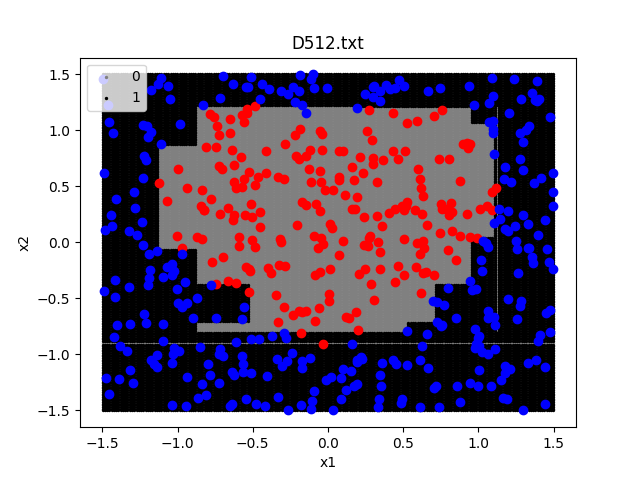
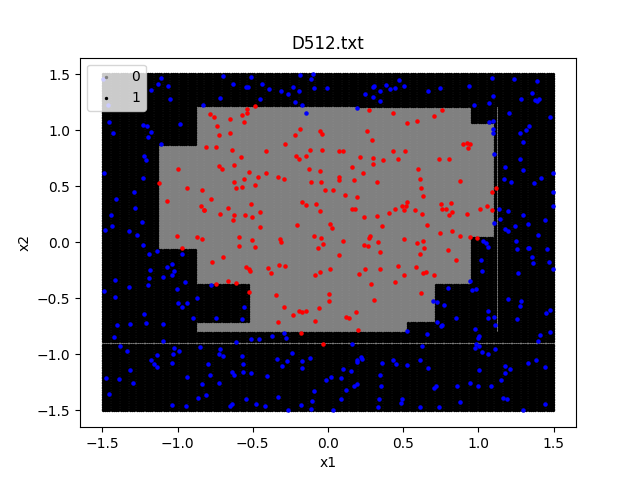
I made a lot of comments on my code

diff --git a/main.py b/main.py
@@ -17,6 +17,17 @@ import sys
 import math
 import matplotlib.pyplot as plt
 
+###
+# Class for each node of the decision tree
+# is_leaf - boolean for if is a leaf node or not
+# left_branch - 'then' side of the decision tree
+# right_branch - 'else' side of the decision tree
+# classification - if is_leaf, then store classification of is class 0 or 1
+# split_feature - the feature to split on
+# split_value - the value to compare split_feature to
+# split_feature and split_value - at non-leaf nodes, these two values represent
+#   the rule that splits the data at this node in the format of:
+#   x_(split_feature) >= split_value
 class TreeNode:
     def __init__(self, is_leaf=False, left_branch=None, right_branch=None, classification=-1, split_feature=-1, split_value=-1):
         self.is_leaf = is_leaf
@@ -26,9 +37,12 @@ class TreeNode:
         self.split_feature = split_feature
         self.split_value = split_value
 
+# Simple function, but makes code more readable
+# returns classification of the example
 def get_classification(example):
     return int(example[-1])
 
+# Sort data D by feature x (0 or 1 whether it is feature x1 or x2, respectively)
 def sort_data_by_feature(D, x):
     #########
     if DEBUG:
@@ -38,6 +52,7 @@ def sort_data_by_feature(D, x):
         return D
     return D[D[:, x].argsort()]
 
+# Determine the candidate splits for numeric datasets
 # Run this subroutine for each numeric feature at each node of DT induction
 def determine_candidate_numeric_splits(D): # set of training instances D, feature X
     #########
@@ -53,10 +68,25 @@ def determine_candidate_numeric_splits(D): # set of training instances D, featur
     for Xi in [0, 1]: # assuming only 2 features
         D = sort_data_by_feature(D, Xi)
         for j in range(0, len(D)-1):
-            if get_classification(D[j]) != get_classification(D[j+1]):
-                C.append([Xi, D[j+1]])
+            # I realize that this line of code is more correct
+            # to leave uncommented to only consider splits where the classification
+            # between points is different (code runs much faster too),
+            # but if I don't consider every point, my tree fails on D3leaves.txt ONLY
+            # My tree does not fail or look different AT ALL on any other given
+            # example set, whether this if statement is here or not.
+            # This tells me that I am SLIGHTLY missing some candidate splits
+            # for VERY specific corner cases, but the VAST majority of the time I am
+            # getting candidate splits correctly.
+            # but when all the splits are considered, my information gain calculation
+            # is still correct and still picks the best split out of all of them.
+
+            #if get_classification(D[j]) != get_classification(D[j+1]):
+            C.append([Xi, D[j+1]])
     return C
 
+# Checks if tree has met stopping criteria to create a leaf node
+# D - current dataset
+# C - candidate splits
 def is_stopping_criteria_met(D, C):
     #########
     if DEBUG:
@@ -67,15 +97,14 @@ def is_stopping_criteria_met(D, C):
 
     stop = False
 
-    # Covers all criteria:
+    # Just checking that there are no candidate splits covers all criteria:
     # The stopping criteria (for making a node into a leaf) are that
     # 1. the node is empty, or
     # -- Should never occur because should never split a set into itself and the empty set
     # -- Only occur as corner case of data is empty
     # 2. all splits have zero gain ratio (if the entropy of the split is non-zero), or
     # -- I do not know when this would occur when 3 does not occur, and 3 is covered
-    # 3. the entropy of any candidates split is zero
-    # -- Entropy is zero when all labels are the same, so when there are no candidate splits
+    # 3. the entropy of all candidates split is zero
     if C == []:
         stop = True
 
@@ -83,7 +112,7 @@ def is_stopping_criteria_met(D, C):
     # else:
     #     gain_ratios = []
     #     for c in range(0, len(C)):
-    #         gain_ratio, S, split_feature, split_value = get_gain_ratios_of_C(C[c], D)
+    #         gain_ratio, S, split_feature, split_value = get_gain_ratio_of_C(C[c], D)
     #         gain_ratios.append(gain_ratio)
     #     stop = gain_ratios.count(0) == len(gain_ratios) # all splits have zero gain ratio
     #########
@@ -95,6 +124,10 @@ def is_stopping_criteria_met(D, C):
     #########
     return stop
 
+# Determine the classification of the the dataset D
+# This method is used to create a leaf node
+# returns classification, which is either 0 or 1
+# determined by class majority of D
 def determine_classification(D):
     class_votes = [0, 0]
     for X in D:
@@ -111,6 +144,10 @@ def determine_classification(D):
     #########
     return classification
 
+# Equation for entropy
+# p - positive cases out of N
+# n - negatice cases out of N
+# N - total number of values to calculate probability in entropy equation
 def get_entropy(p, n, N):
     #########
     if DEBUG:
@@ -121,6 +158,9 @@ def get_entropy(p, n, N):
     else:
         return -(p / N)*math.log2(p / N)-(n / N)*math.log2(n / N)
 
+# Calculates information gain
+# D - original dataset
+# S - split dataset
 def info_gain(D, S):
     if DEBUG:
         print('info_gain()')
@@ -172,6 +212,7 @@ def info_gain(D, S):
     info_gain = entropy - remainder
     return info_gain
 
+# Splits data D at split candidate C
 def split_data(C, D):
     split_feature = C[0]
     split_value = C[1][split_feature]
@@ -184,10 +225,13 @@ def split_data(C, D):
             S[1].append(x)
     return S
 
-def get_gain_ratios_of_C(C, D):
+# Calculate gain ratio of candidate split
+# C - the candidate split
+# D - the dataset to split
+def get_gain_ratio_of_C(C, D):
     #########
     if DEBUG:
-        print('get_gain_ratios_of_C()')
+        print('get_gain_ratio_of_C()')
     #########
     S = split_data(C, D)
 
@@ -197,16 +241,17 @@ def get_gain_ratios_of_C(C, D):
         if entropy_of_split == 0:
             print(C, ' ENTROPY IS 0')
     #########
+    # skip if 0 split information
     if entropy_of_split == 0:
         return 0, S, C[0], C[1][C[0]]
 
     info_gain_c = info_gain(D, S)
 
-    # skip if 0 split information
     gain_ratio = info_gain_c / entropy_of_split
 
     return gain_ratio, S, C[0], C[1][C[0]]
 
+# Find the best split best_S out of all candidate splits C on dataset D
 def find_best_split(D, C):
     #########
     if DEBUG:
@@ -221,7 +266,7 @@ def find_best_split(D, C):
         if DEBUG:
             print('candidate:', C[c])
         #########
-        gain_ratio, S_c, split_feature, split_value = get_gain_ratios_of_C(C[c], D)
+        gain_ratio, S_c, split_feature, split_value = get_gain_ratio_of_C(C[c], D)
 
         if (gain_ratio > max_gain_ratio):
             best_S = S_c
@@ -240,12 +285,16 @@ def find_best_split(D, C):
 
     return best_S, best_split_value, best_split_feature
 
+###
+# The main equation for building the decision tree
+# D - dataset to build tree for
+# root - Only used for Section 2 question 3, True if first node in the tree
 def make_subtree(D, root=False):
-    # Section 2 question 3
+    # Only used for Section 2 question 3
     if root:
         C = determine_candidate_numeric_splits(D)
         for c in C:
-            gain_ratio, S, split_feature, split_value = get_gain_ratios_of_C(c, D)
+            gain_ratio, S, split_feature, split_value = get_gain_ratio_of_C(c, D)
             info_gain_c = info_gain(D, S)
             print('candidate split: split on x%d >= %f' % (c[0], c[1][c[0]]), end='\t| ')
             if gain_ratio == 0:
@@ -257,7 +306,16 @@ def make_subtree(D, root=False):
     if DEBUG:
         print("making subtree with D\n", D, '', type(D),'\n:\n')
     #########
+
+    ### MAIN ALGORITHM STARTS HERE
+    # Determine candidate splits
+    # C is an array of candidate splits,
+    # and each c in C is in the format of:
+    # [split_feature, D[i]]
+    # split_feature being 0 if feature x1 or 1 if feature x2
+    # D[i] being the row example within D where the split will occur
     C = determine_candidate_numeric_splits(D)
+    # If stopping criteria met, create a tree node; make subtrees otherwise
     if is_stopping_criteria_met(D, C):
         #########
         if DEBUG:
@@ -265,17 +323,23 @@ def make_subtree(D, root=False):
         #########
         return TreeNode(is_leaf=True, classification=determine_classification(D))
     else:
+        # S is the split dataset in the format of [D[:{split_location}], D[{split_location}:]]
+        # split rule in tree looks like split_feature >= split_value
         S, split_value, split_feature = find_best_split(D, C)
         #########
         if DEBUG:
             print("split_value, split_feature", split_value, split_feature)
             print("making 2 new subtrees with\n", S[0], '\n\n', S[1], '\n---\n')
         #########
+        # If the split attempted resulted in D -> S = [D, []], then we are actually at a leaf node
         if len(S[1]) == 0:
             return TreeNode(is_leaf=True, classification=determine_classification(D))
+        # Create subtrees for left and right branches
         return TreeNode(left_branch=make_subtree(np.array(S[0])), right_branch=make_subtree(np.array(S[1])), split_value=split_value, split_feature=split_feature)
 
-################################################################################
+#######################Post-tree-building testing###############################
+
+# Traverse the tree with datapoint x to get the class of x
 def get_class_of_x_from_tree(tree, x):
     if (tree.is_leaf):
         return tree.classification
@@ -285,22 +349,27 @@ def get_class_of_x_from_tree(tree, x):
         else:
             return get_class_of_x_from_tree(tree.right_branch, x)
 
+# Test tree with dataset D
 def test_tree(tree, D):
     N = len(D)
     num_correct = 0
     for x in D:
         if x[-1] == get_class_of_x_from_tree(tree, x):
             num_correct = num_correct + 1
-    print(num_correct, '/', N, '=', num_correct / N, 1 - num_correct / N)
+    print(num_correct, '/', N, '=', num_correct / N,'err=', 1 - num_correct / N)
 
+# Count the number of trees in tree
 def count_nodes_in_tree(tree):
     if tree.is_leaf:
         return 1
     else:
         return 1 + count_nodes_in_tree(tree.left_branch) + count_nodes_in_tree(tree.right_branch)
 
-################################################################################
+#################################File I/O#######################################
 
+# Input D.txt file for dataset
+# filename - name of the file, usually D{?}.txt for this assignemnt
+# returns dataset D from file
 def file_input(filename):
     D = []
     file = open(filename)
@@ -321,6 +390,7 @@ def file_input(filename):
     file.close()
     return D
 
+# Print a text visualization for the tree
 def print_tree(level, tree):
     if tree.is_leaf:
         for i in range(0, level):
@@ -348,6 +418,8 @@ def print_tree(level, tree):
         print()
         print_tree(level+1, tree.right_branch)
 
+# Create a scatter plot of dataset D into a file with name filename
+# produces an output .png in the output folder
 def scatter_plot_points(D, filename):
     x_class_0 = D[D[:, 2] == 0, :]
     x_class_1 = D[D[:, 2] == 1, :]
@@ -359,6 +431,12 @@ def scatter_plot_points(D, filename):
     plt.title(filename)
     plt.savefig('output/'+filename+'.png')
 
+# Draws the decision boundary for the scatterplot of points
+# Works by creating A LOT of smaller points to just fill in the boundary space,
+# then plotting the scatterplot on top
+# D - dataset to plot
+# tree - decision tree to draw the boundaries of
+# filename - name of the file to produce an output to
 def draw_scatter_plot_with_boundary(D, tree, filename):
     x_class_0 = D[D[:, 2] == 0, :]
     x_class_1 = D[D[:, 2] == 1, :]
@@ -369,11 +447,11 @@ def draw_scatter_plot_with_boundary(D, tree, filename):
         for x1 in np.linspace(min(D[:, 1]), max(D[:, 1]), N):
             boundary[get_class_of_x_from_tree(tree, [x0, x1])].append([x0, x1])
 
-    boundary0 = np.array(boundary[0]).T
-    boundary1 = np.array(boundary[1]).T
+    boundary_for_class0 = np.array(boundary[0]).T
+    boundary_for_class1 = np.array(boundary[1]).T
 
-    plt.scatter(boundary0[0], boundary0[1], color = 'gray', s=2)
-    plt.scatter(boundary1[0], boundary1[1], color = 'black', s=2)
+    plt.scatter(boundary_for_class0[0], boundary_for_class0[1], color = 'gray', s=2)
+    plt.scatter(boundary_for_class1[0], boundary_for_class1[1], color = 'black', s=2)
     plt.scatter(x_class_0[:, 0], x_class_0[:, 1], color = 'red', s=5)
     plt.scatter(x_class_1[:, 0], x_class_1[:, 1], color = 'blue', s=5)
     plt.xlabel('x1')
@@ -384,11 +462,12 @@ def draw_scatter_plot_with_boundary(D, tree, filename):
 
 ################################################################################
 
+# Set to true to turn on all DEBUG print statements
 DEBUG = False
 
+# My main method that I commented out and maniputed a lot in order to produce what I needed
 if __name__ == "__main__":
-    filename = sys.argv[1]
-    print(sys.argv[1].split('/'))
+    filename = sys.argv[1] # take a command line argument to pull in filename for dataset D
     D = np.array(file_input(filename))
 
     tree = make_subtree(D)
